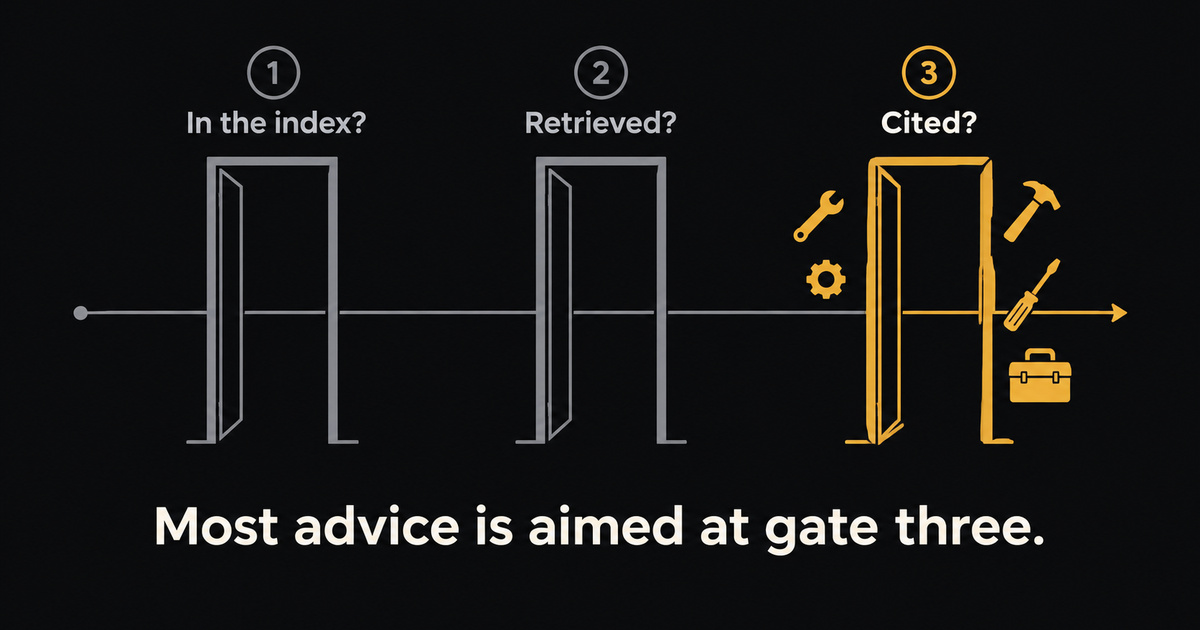
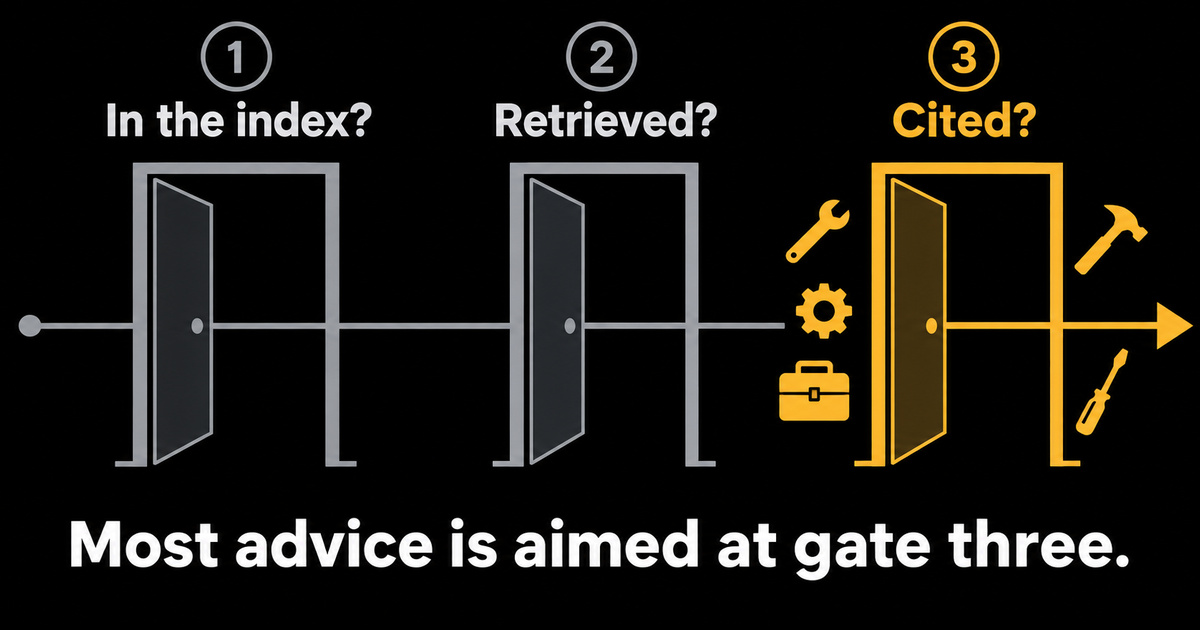
Image pack rev 3, the User Guide's false claim, and the iPhone min-w line
IMAGE PACK — rev 3 wired, and the record corrected. The served-bytes
table in my last report (hero 209,071, OG 150,607) was measured from
c0ce83a, before the swap; rev 3 was already extracted and staged. It
meets all three identifying criteria: ten manifest entries, a 1600x800
hero, an OG of exactly 147,111 bytes. Digests re-verified after copy.

The founder's lesson stands regardless and is the more useful half. On
the FIRST pack every check passed — sha256sum -c, an independent channel
check for opaque RGB, digests re-checked after copying — and none of it
could tell me a newer zip existed. A manifest proves a file matches its
own manifest; it cannot prove the manifest is current. The tell that WAS
available: the wired filename primer-hero-three-gates-1600x900.jpg does
not exist in the current pack, because the chosen source is natively 2:1.
A name that no longer exists upstream is a staleness signal no digest can
give you.

Recorded as case 7 in SILENT-FAILURE-LOG.md, and it is the first where
the check was CORRECT and structurally incapable of catching the error
rather than broken. Four document revisions were diffed correctly the
same evening; the zip was not, because a zip felt like a thing rather
than a version.

Also corrected while wiring: fig2 declares height 841, matching its
actual pixels. The filename's 840 stays — renaming would break digests
for a cosmetic pixel, per the founder's ruling.

THE USER GUIDE CLAIMED SCHEMA IS "the single most effective way to
[…]

Changed region(s): [[0.0, 0.0302, 1.0, 0.754], [0.0617, 0.7841, 0.9558, 0.9349]]

diff --git a/public/blog/why-ai-doesnt-mention-you/index.html b/public/blog/why-ai-doesnt-mention-you/index.html
@@ -201,7 +201,7 @@ footer p{max-width:none}
       <p class="postlead">You added the structured data. You wrote the FAQ page. You put an llms.txt file at the root of your site because someone said the AI crawlers read it. Months later you ask ChatGPT what the best options in your category are, and your name does not come up.</p>
       <p class="postmeta">PIGENAI LLC &middot; September 2026 &middot; 8-minute read</p>
       <figure class="postfig">
-        <img src="https://aeoanalyzers.com/blog/why-ai-doesnt-mention-you/img/primer-hero-three-gates-1600x900.jpg" alt="Three gates in sequence &mdash; in the index, retrieved, cited. Almost all AI visibility advice is aimed at the third gate, while most sites are failing the first." width="1600" height="900" loading="lazy" decoding="async">
+        <img src="https://aeoanalyzers.com/blog/why-ai-doesnt-mention-you/img/primer-hero-three-gates-1600x800.jpg" alt="Three gates in sequence &mdash; in the index, retrieved, cited. Almost all AI visibility advice is aimed at the third gate, while most sites are failing the first." width="1600" height="800" loading="lazy" decoding="async">
         <figcaption>Three gates, in order: in the index, retrieved, cited. Almost all advice aims at the third.</figcaption>
       </figure>
 
@@ -230,7 +230,7 @@ footer p{max-width:none}
       <h2>There is no single &ldquo;AI,&rdquo; and the ones people use do not read the same web</h2>
       <p>This is the part that explains most of the confusion, and almost nobody says it plainly.</p>
       <figure class="postfig">
-        <img src="https://aeoanalyzers.com/blog/why-ai-doesnt-mention-you/img/primer-fig2-four-indexes-1600x840.jpg" alt="Four AI assistants drawing on four different indexes with little overlap between them &mdash; ChatGPT&rsquo;s own index, Brave for Claude, Google for Gemini, and Perplexity&rsquo;s own crawler." width="1600" height="840" loading="lazy" decoding="async">
+        <img src="https://aeoanalyzers.com/blog/why-ai-doesnt-mention-you/img/primer-fig2-four-indexes-1600x840.jpg" alt="Four AI assistants drawing on four different indexes with little overlap between them &mdash; ChatGPT&rsquo;s own index, Brave for Claude, Google for Gemini, and Perplexity&rsquo;s own crawler." width="1600" height="841" loading="lazy" decoding="async">
         <figcaption>Four assistants, four indexes. Overlap between any two of them ran from 16% to 59%.</figcaption>
       </figure>
 
@@ -255,7 +255,7 @@ footer p{max-width:none}
 
       <h2>Three gates, and they happen in order</h2>
       <figure class="postfig">
-        <img src="https://aeoanalyzers.com/blog/why-ai-doesnt-mention-you/img/primer-hero-three-gates-1600x900.jpg" alt="Three gates in sequence &mdash; in the index, retrieved, cited. Almost all AI visibility advice is aimed at the third gate, while most sites are failing the first." width="1600" height="900" loading="lazy" decoding="async">
+        <img src="https://aeoanalyzers.com/blog/why-ai-doesnt-mention-you/img/primer-hero-three-gates-1600x800.jpg" alt="Three gates in sequence &mdash; in the index, retrieved, cited. Almost all AI visibility advice is aimed at the third gate, while most sites are failing the first." width="1600" height="800" loading="lazy" decoding="async">
         <figcaption>The same three gates. Work below your failing gate does not move the one above it.</figcaption>
       </figure>
 

diff --git a/src/App.tsx b/src/App.tsx
@@ -1074,7 +1074,7 @@ export default function App() {
                 <div className="bg-white border border-zinc-200 rounded-3xl overflow-hidden shadow-sm">
                   {/* Mobile: the table scrolls sideways inside the card instead of clipping columns (iPhone QA Sep 7). */}
                   <div className="overflow-x-auto">
-                  <table className="w-full min-w-[560px] text-left">
+                  <table className="w-full min-w-[900px] text-left">
                     <thead className="bg-zinc-50 border-b border-zinc-100">
                       <tr>
                         <th className="px-6 py-4 text-xs font-bold text-zinc-400 uppercase tracking-widest">Website</th>
@@ -1138,7 +1138,7 @@ export default function App() {
                       false-positives corrected), so a row and its opened view can differ. */}
                   <p className="px-6 pt-4 text-xs text-zinc-500">Figures below are as first stored, pooled across engines over <b>search-grounded runs only</b> — the same basis as the opened view and the downloaded report. Answers given from the model's memory are unmeasured, not zero, and are excluded. <b>Open a sweep to see the re-scored numbers</b> — errored runs are excluded and branded false-positives corrected on open, so an older row may read higher than its opened view.</p>
                   <div className="overflow-x-auto">
-                  <table className="w-full min-w-[560px] text-left">
+                  <table className="w-full min-w-[900px] text-left">
                     <thead className="bg-zinc-50 border-b border-zinc-100">
                       <tr>
                         <th className="px-6 py-4 text-xs font-bold text-zinc-400 uppercase tracking-widest">Domain</th>

diff --git a/src/__tests__/voiceLint.test.ts b/src/__tests__/voiceLint.test.ts
@@ -176,3 +176,34 @@ describe('marketing copy in components stays on-voice too', () => {
     });
   }
 });
+
+/** EFFICACY SUPERLATIVES — added Sep 20 2026 after the User Guide was found claiming
+ *  schema is "the single most effective way to improve your AEO score". Two problems in
+ *  one sentence: an unqualified superlative, and a claim our own published primer
+ *  contradicts — six of seven platforms cannot read schema, and a fact placed only there
+ *  was answered by none of them.
+ *
+ *  The BANNED list had eleven entries and not one covered a claim about how WELL
+ *  something works, which is the most consequential kind to get wrong. */
+describe('claims about how well something works are not exempt from the voice rule', () => {
+  it('catches the sentence that shipped', () => {
+    expect(bannedAbsolutes('This is the single most effective way to improve your AEO score.')).not.toEqual([]);
+  });
+
+  it('catches the family, not just that phrasing', () => {
+    for (const s of [
+      'the most important thing you can do for AI visibility',
+      'the most powerful lever available',
+      'the fastest way to get cited',
+      'the surest way to be recommended',
+    ]) expect(bannedAbsolutes(s), `missed: ${s}`).not.toEqual([]);
+  });
+
+  it('does not fire on ordinary comparative prose', () => {
+    for (const s of [
+      'We report three separable layers rather than one blended number.',
+      'Index presence matters more than page structure when you are failing gate one.',
+      'This is effective for entity disambiguation.',
+    ]) expect(bannedAbsolutes(s), `false positive: ${s}`).toEqual([]);
+  });
+});

diff --git a/src/lib/voiceLint.ts b/src/lib/voiceLint.ts
@@ -37,6 +37,14 @@ const BANNED: { rx: RegExp; label: string }[] = [
   { rx: /hands down/i, label: 'hands down' },
   { rx: /\bwe guarantee\b/i, label: 'we guarantee' },
   { rx: /guaranteed results/i, label: 'guaranteed results' },
+  // EFFICACY SUPERLATIVES — added Sep 20 2026. The User Guide claimed schema was
+  // "the single most effective way to improve your AEO score", which is both an
+  // unqualified superlative AND contradicted by our own published primer: six of
+  // seven platforms cannot read schema and a schema-only fact was answered by none.
+  // The BANNED list had eleven entries and none of them covered a claim about how
+  // well something works, which is the most consequential kind to get wrong.
+  { rx: /\b(the\s+)?(single\s+)?most\s+(effective|powerful|important|impactful)\b/i, label: 'efficacy superlative' },
+  { rx: /\bfastest way to\b|\bsurest way to\b|\bbest way to (get|be|become) (cited|mentioned|recommended)\b/i, label: 'efficacy superlative (idiom)' },
   // --- comparative-deficiency claims about competitors (added Sep 19 2026) ---
   // Subject AND predicate, same clause. `[^.<]{0,60}` keeps it inside one sentence and
   // stops it leaping an HTML tag boundary into unrelated copy.

diff --git a/src/components/UserGuideDashboard.tsx b/src/components/UserGuideDashboard.tsx
@@ -159,7 +159,7 @@ export default function UserGuideDashboard() {
             </div>
             <h3 className="text-3xl font-black tracking-tight text-indigo-900">Implementing JSON-LD</h3>
             <p className="text-indigo-700/80 text-lg leading-relaxed">
-              After every analysis, we generate a custom "machine-readable" layer. This is the single most effective way to improve your AEO score.
+              After every analysis, we generate a custom "machine-readable" layer. It earns rich results in Google and helps engines tell your company apart from a similarly named one. It is not how you get quoted — in a controlled test across seven AI platforms only Gemini could read schema at all, and a fact placed only there was answered by none of them — so anything a model needs to know must also appear in your visible text.
             </p>
             <div className="space-y-4">
               <div className="flex items-start gap-4">

diff --git a/docs/evidence/BLOCKED-ITEMS.md b/docs/evidence/BLOCKED-ITEMS.md
@@ -50,5 +50,6 @@ interrupt are a live defect on a revenue surface and a published claim that is f
 | `shellRoute` customer-facing detector | See the table above. | WO-003/B | 2026-09-19 |
 | **The retired `PI GenAI LLC` spelling, 17 instances across five published posts** | Inconsistent rather than false, so it meets neither interrupt exception, and touching published body text triggers G7. **Urgency note, raised 2026-09-20:** two of the five render the retired name INSIDE the first-200-character window, so the first thing an extractor reads from those posts is a company name retired in September. That is a stronger argument than the cross-links. Also: the new primer cross-links to all five of those posts and uses the canonical `PIGENAI LLC`, so a prospect who follows a link from the primer sees two spellings of the company name one click apart. When it is cleared it is ONE pass across all five files plus the syndicated copies, never a drip — a half-cleared set is worse than an uncleared one, because it looks like two companies rather than one typo. | Weekly product slice · founder word on published body text | 2026-09-20 |
 | **The byline sits above the lead on five published posts** | `postmeta` renders between the `<h1>` and the lead, so the first ~40 characters of the extractor window are spent on "PI GenAI LLC · July 2026 · 4-minute read". Measured on all five. The primer is built the corrected way and is the template default from now on. Fixing the existing five is a content edit on published posts, so it is queued rather than done. | Weekly product slice · founder word on published body text | 2026-09-20 |
+| **Preview branches cannot deploy** | Two attempts on `diag/history-minw-900` both failed 0/5 on prerender, with `/` itself timing out on `#hero-title`, while main built 5/5 in four seconds. Chromium cold-start in a build cache that does not have it warm. The gate correctly refused to ship five shell routes — that part is working. **The consequence is larger than one diagnostic: every future "send me a preview URL to test on the device" is blocked**, and iPhone work depends on exactly that loop. Likely fixes: pin/cache Chromium explicitly, raise the prerender watchdog and per-route waits for cold containers, or skip prerender on preview targets and gate only on production. | Weekly product slice | 2026-09-20 |
 | **No shared head template for the static pages** | Seven hand-written heads in `public/`. It is why the favicon, the manifest link and the analytics tag diverged from the SPA shell and stayed diverged for six months, and it will keep producing exactly this. A shared partial plus a test asserting head parity across all static pages. | Weekly product slice | 2026-09-20 |
 | **`/scoreboard`** — a permanent page generated from stored sweeps, so reporting a number no longer requires writing a post | Columns: month · measurement date · branded retrievability % with N · category citation win % with N · **per-engine branded** (the engines differ and that difference is the story) · corpus presence as appearances in cited-source sets · one line on what changed · link to the stored run. Inherits the standing rules: N and confidence per cell, errored runs excluded and never scored as zeros, search-grounded separated from model-prior, transcripts retained, Unmeasured says Unmeasured. **Generated by the monthly run, never hand-edited — if the run does not happen the page says the month is missing rather than silently showing stale numbers.** Carries with it ONE edit to `/blog/i-scored-zero`, once and never again: a line at the top reading "The current number lives on the scoreboard," after which that post is a dated narrative and stops being maintained. The blog line ships only once the page exists; pointing at a page that does not is the kind of broken promise this product measures. | Weekly product slice | 2026-09-19 |

diff --git a/docs/evidence/SILENT-FAILURE-LOG.md b/docs/evidence/SILENT-FAILURE-LOG.md
@@ -77,11 +77,39 @@ Raw served bytes: `</h1>` at 13715, `class="postlead"` at **13757 (+42)**, `clas
 **Lesson:** it is not only our checks. Any rendering between you and the artifact is a check
 you did not write and cannot see the assumptions of.
 
+## 7. The image pack — a manifest that could not tell me it was stale
+
+**What ran:** `sha256sum -c MANIFEST.sha256` on a delivered asset pack, then an independent
+channel check for opaque RGB, then a re-check of every digest **after** copying the files into
+`public/`.
+**What it reported:** all eight files verified. Every check passed. The pack was wired and shipped.
+**What was actually happening:** two newer revisions of that pack existed. The hero I shipped was
+`ALT-three-gates-clean-geometric`, which the current pack lists in `alternates/` as **not for
+use** — the treatment the founder had looked at and rejected as unreadable at thumbnail size.
+**Caught by:** the founder sending a revision, and a pack-to-pack diff.
+
+**Why this one is different from the other six.** Those checks were broken or aimed at the wrong
+artifact. This one was **correct and structurally incapable of catching the error**. A manifest
+proves a file matches its own manifest. It cannot prove the manifest is current. There is no
+amount of care inside that check that would have found it.
+
+**The tell that was available and was not used:** the wired filename,
+`primer-hero-three-gates-1600x900.jpg`, does not exist in the current pack — the chosen source is
+natively 2:1 and the hero is `1600x800`. A name that no longer exists upstream is a staleness
+signal that no digest can give you.
+
+**The rule that falls out of it:** for any delivered artifact, establish *which* delivery is
+current before verifying *that* it is intact. In practice: list every candidate file by
+timestamp, take the newest rather than the shortest name, and state the identifying facts of the
+revision you built from — here, ten manifest entries, a 1600x800 hero, and a 147,111-byte OG.
+Four document revisions of the work order were diffed correctly this same evening; the zip was
+not, because a zip felt like a thing rather than a version.
+
 ---
 
 ## The pattern, stated once
 
-Five of these six were **our own verification steps**, not our product. The product's checks are
+Six of these seven were **our own verification steps**, not our product. The product's checks are
 tested against planted failures; the steps we use to confirm our own work were not, until this
 week. Three of the six were caught only because a number disagreed with another number.
 
